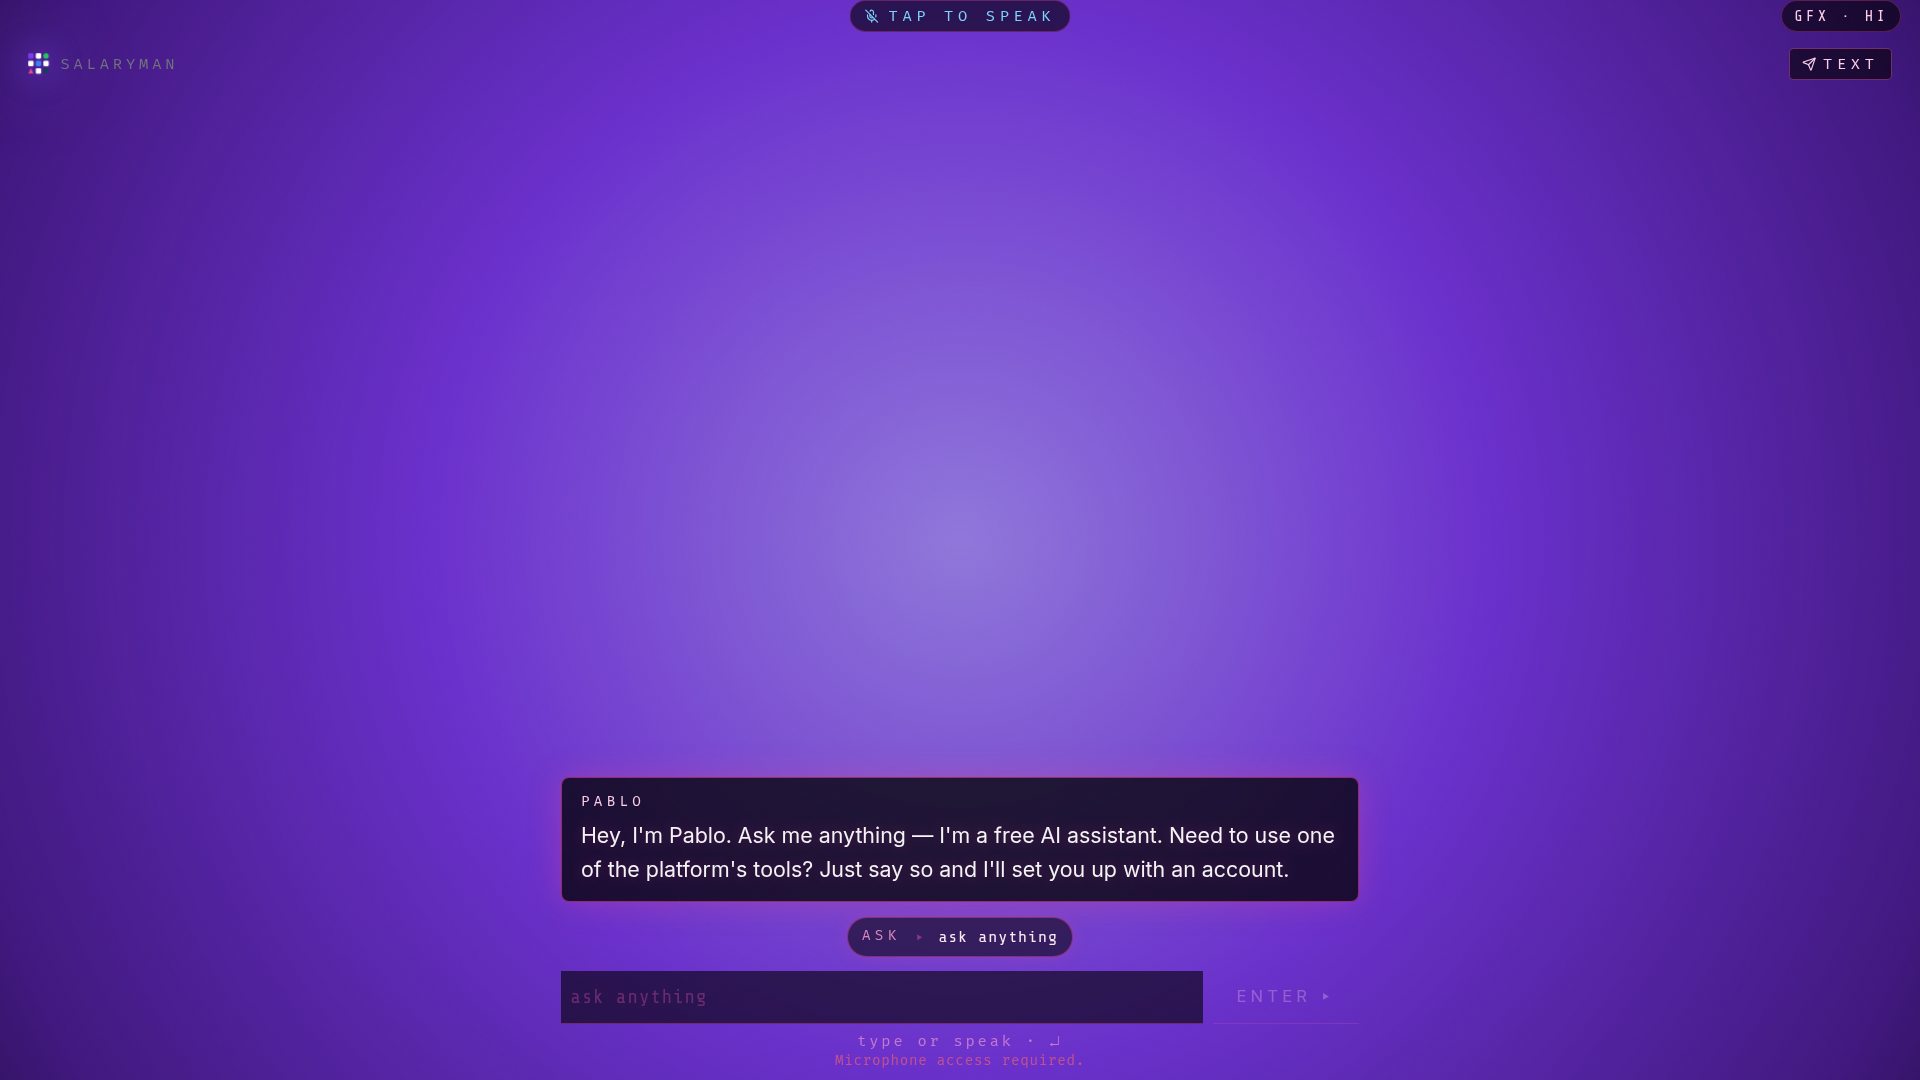
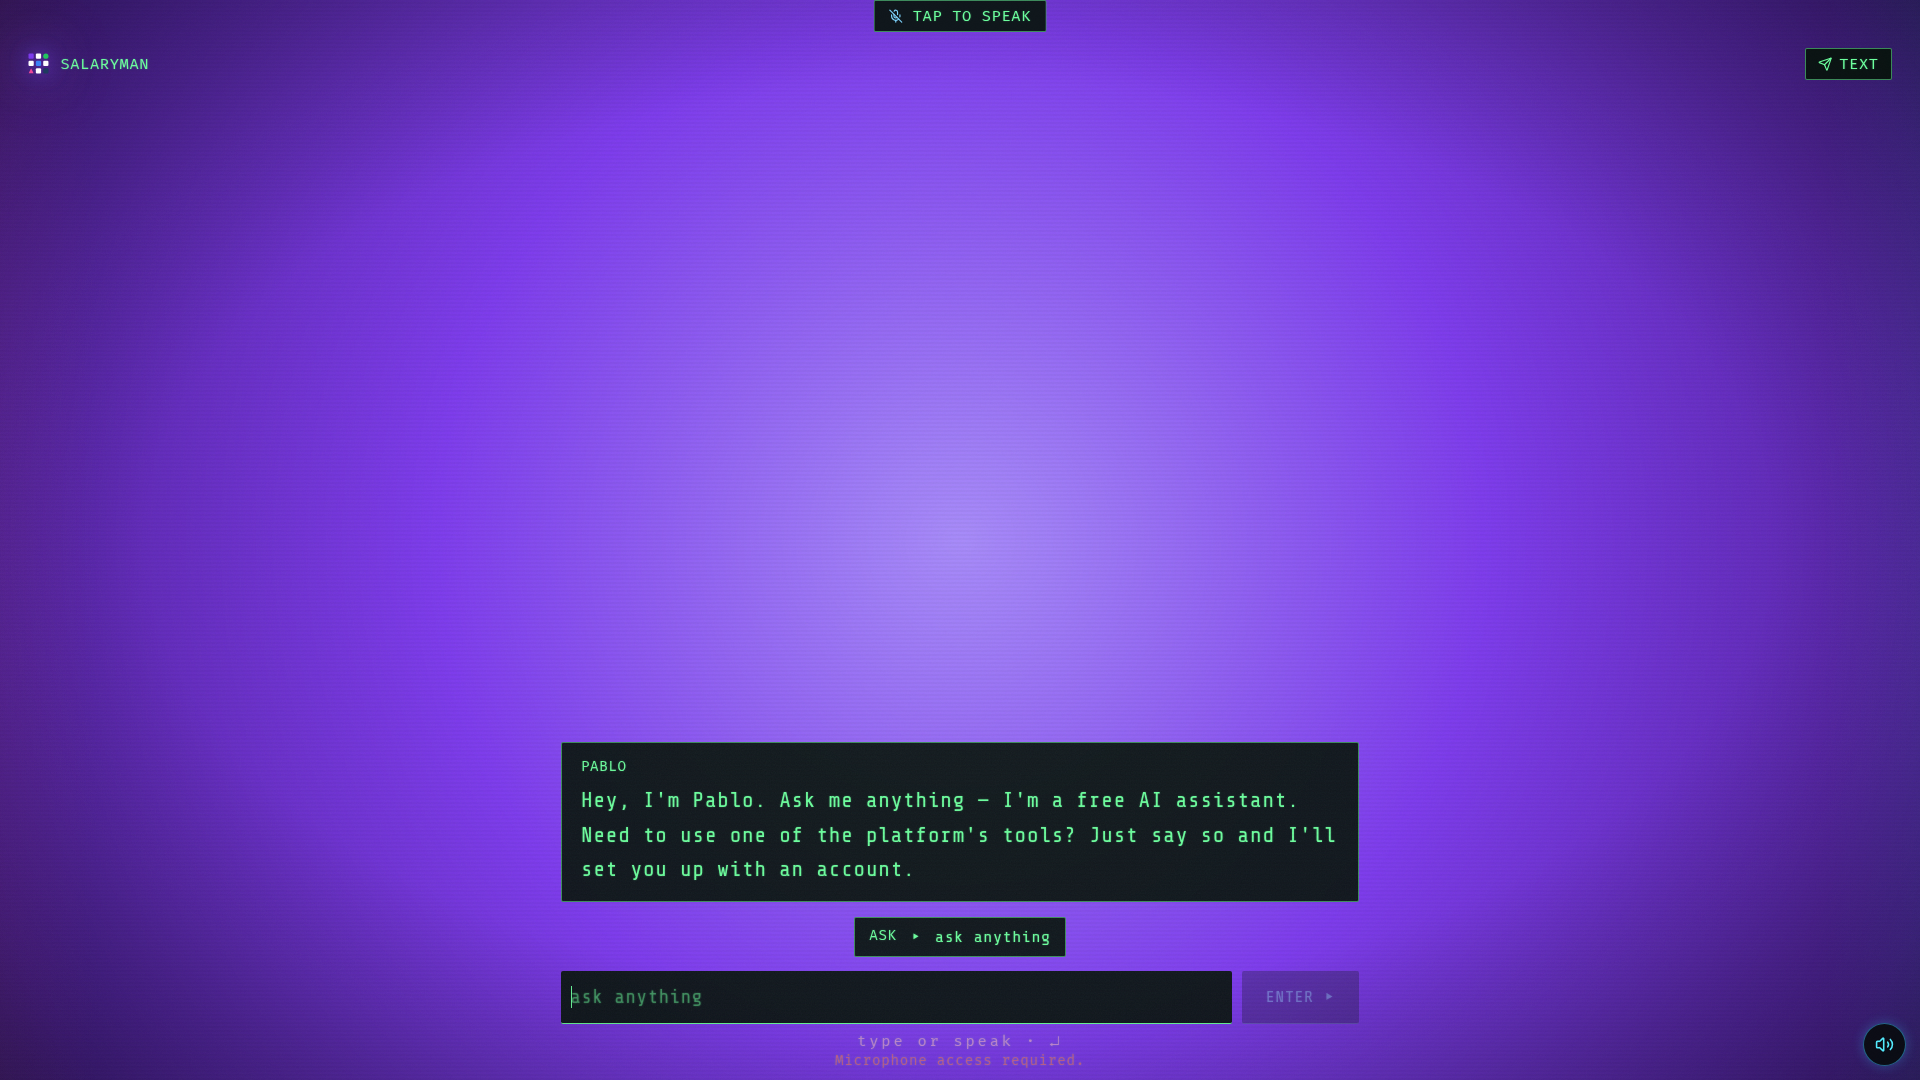
Add administrative tool to reset all player progress and organizations
Introduces a new 'world' target for the bulk reset endpoint in `admin.ts` and updates `AdminPanel.tsx` to include a button for a full fresh start, resetting all game progress and organizations while preserving user accounts and catalog data. Also updates the initial redirect logic in `Home.tsx` to target '/office' instead of '/bots/office'.

Replit-Commit-Author: Agent
Replit-Commit-Session-Id: 3f606aac-38ae-4c88-9832-72d69809cf42
Replit-Commit-Checkpoint-Type: full_checkpoint
Replit-Commit-Event-Id: 1b37b953-586e-409e-873a-f6a301ce90b8
Replit-Commit-Screenshot-Url: https://storage.googleapis.com/screenshot-production-us-central1/4cd4455d-8664-45df-88b0-61c0445e96ff/3f606aac-38ae-4c88-9832-72d69809cf42/vhYV5Ma
Replit-Helium-Checkpoint-Created: true

diff --git a/artifacts/interview-helper/src/pages/AdminPanel.tsx b/artifacts/interview-helper/src/pages/AdminPanel.tsx
@@ -864,15 +864,17 @@ export default function AdminPanel() {
     } catch {} finally { setActionLoading(false); }
   };
 
-  const handleBulkReset = async (target: 'saves' | 'features' | 'all') => {
+  const handleBulkReset = async (target: 'saves' | 'features' | 'all' | 'world') => {
     const labelMap: Record<string, string> = {
       saves: "DELETE EVERY PLAYER'S GAME PROGRESS (Picasso admins preserved)",
       features: "REVOKE EVERY USER'S FEATURE GRANTS (Picasso admins preserved)",
       all: "DELETE EVERY SAVE AND REVOKE EVERY FEATURE (Picasso admins preserved)",
+      world: "FULL FRESH START — wipe ALL game progress AND DELETE EVERY ORG for EVERYONE (admins included). Logins, subscriptions/billing, and the world catalog are kept. Everyone replays onboarding from the very beginning.",
     };
-    if (!confirm(`${labelMap[target]}\n\nType OK in the next prompt to confirm.`)) return;
-    const typed = prompt('Type OK to confirm this destructive bulk action:');
-    if (typed !== 'OK') return;
+    const confirmWord = target === 'world' ? 'RESET' : 'OK';
+    if (!confirm(`${labelMap[target]}\n\nType ${confirmWord} in the next prompt to confirm.`)) return;
+    const typed = prompt(`Type ${confirmWord} to confirm this destructive bulk action:`);
+    if (typed !== confirmWord) return;
     setActionLoading(true);
     try {
       const resp = await apiFetch(`/api/admin/bulk-reset`, {
@@ -882,7 +884,11 @@ export default function AdminPanel() {
       });
       if (resp.ok) {
         const data = await resp.json();
-        alert(`Done. Saves deleted: ${data.savesDeleted}. Features revoked: ${data.featuresRevoked}. Owners preserved: ${data.ownersPreserved}.`);
+        if (target === 'world') {
+          alert(`Full fresh start complete. ${data.total} rows wiped across ${Object.keys(data.counts ?? {}).length} tables (all game progress + every org). Logins, billing, and the world catalog are intact. Everyone now replays onboarding.`);
+        } else {
+          alert(`Done. Saves deleted: ${data.savesDeleted}. Features revoked: ${data.featuresRevoked}. Owners preserved: ${data.ownersPreserved}.`);
+        }
         loadData();
       } else {
         alert('Bulk reset failed.');
@@ -1034,6 +1040,18 @@ export default function AdminPanel() {
                     className="px-3 py-2 text-[10px] font-mono tracking-widest uppercase rounded-md bg-red-950/60 hover:bg-red-900/70 border border-red-700/60 text-red-100 disabled:opacity-40"
                   >
                     NUCLEAR — RESET BOTH
+                  </button>
+                </div>
+                <div className="mt-4 pt-4 border-t border-red-900/40">
+                  <p className="text-[11px] text-zinc-500 mb-3">
+                    <span className="text-red-300 font-mono">FULL FRESH START</span> — wipes ALL game progress <em>and deletes every org</em> for the entire player base (admins included). Logins, subscriptions/billing, and the world catalog are kept. Everyone replays onboarding from the very beginning.
+                  </p>
+                  <button
+                    onClick={() => handleBulkReset('world')}
+                    disabled={actionLoading}
+                    className="px-3 py-2 text-[10px] font-mono tracking-widest uppercase rounded-md bg-red-700/80 hover:bg-red-600/90 border border-red-500/70 text-white disabled:opacity-40"
+                  >
+                    ⚠ RESET EVERYONE TO THE BEGINNING
                   </button>
                 </div>
               </div>

diff --git a/artifacts/api-server/src/routes/admin.ts b/artifacts/api-server/src/routes/admin.ts
@@ -300,8 +300,64 @@ router.post("/admin/users/:userId/reset", async (req: Request, res: Response) =>
 router.post("/admin/bulk-reset", async (req: Request, res: Response) => {
   if (!(await requirePicassoAdmin(req, res))) return;
   const target = String(req.body?.target ?? "saves");
-  if (!["saves", "features", "all"].includes(target)) {
-    return res.status(400).json({ error: "target must be 'saves' | 'features' | 'all'" });
+  if (!["saves", "features", "all", "world"].includes(target)) {
+    return res.status(400).json({ error: "target must be 'saves' | 'features' | 'all' | 'world'" });
+  }
+
+  // FULL FRESH START — wipe ALL game progress + every org so the entire
+  // player base (admins included) replays onboarding from the very start.
+  // Logins (users, user_google_links), billing/subscriptions (user_tiers,
+  // user_features, feature_trials, pledge_purchases, usage_meters, pablo_tax_*),
+  // moderation (bans, flagged_users), the tester program, and all world
+  // catalog/seed tables are intentionally preserved so nobody is locked out
+  // and the world still exists to be re-onboarded into.
+  // Deleting `organizations` cascades to org_members/invites/partnerships/
+  // feature_grants/door_locks/org chat_channels/tickets (+ticket_comments).
+  // Every other table here keys players by a plain varchar user_id (no FK),
+  // so order is unconstrained; run as one transaction for all-or-nothing.
+  if (target === "world") {
+    const FRESH_START_TABLES = [
+      "organizations",
+      "salaryman_saves",
+      "world_businesses",
+      "player_profiles",
+      "player_inventory",
+      "player_loadout",
+      "player_ledger",
+      "player_cosmetics",
+      "player_crypto_balance",
+      "crypto_purchases",
+      "player_exploration",
+      "user_discovered_subway_stations",
+      "subway_trips",
+      "salaryman_player_pass",
+      "salaryman_player_missions",
+      "bank_accounts",
+      "bank_transactions",
+      "addresses",
+      "world_build_contributions",
+      "world_build_plans",
+      "colleagues",
+      "pablo_memories",
+      "pablo_commands",
+      "user_memory",
+    ] as const;
+    const counts: Record<string, number> = {};
+    await db.transaction(async (tx) => {
+      for (const t of FRESH_START_TABLES) {
+        const r = await tx.execute(sql.raw(`DELETE FROM "${t}"`));
+        counts[t] = (r as { rowCount?: number }).rowCount ?? 0;
+      }
+    });
+    const total = Object.values(counts).reduce((a, b) => a + b, 0);
+    await logAudit(
+      req.user!.id,
+      "bulk_reset",
+      "system",
+      "world",
+      `FULL FRESH START — ${total} rows wiped across ${FRESH_START_TABLES.length} tables (all game progress + every org). Logins/billing/catalog preserved.`,
+    );
+    return res.json({ ok: true, target, total, counts });
   }
 
   // Resolve owner user IDs so we never wipe the admins doing the testing.

diff --git a/artifacts/interview-helper/src/pages/Home.tsx b/artifacts/interview-helper/src/pages/Home.tsx
@@ -418,7 +418,7 @@ export default function Home() {
       if (window.sessionStorage.getItem('sm_intro_redirected') === '1') return;
       window.sessionStorage.setItem('sm_intro_redirected', '1');
     } catch { /* private mode — fall through and redirect once */ }
-    navigate(onboardingDone ? '/bots/office' : '/rebellion', { replace: true });
+    navigate(onboardingDone ? '/office' : '/rebellion', { replace: true });
   }, [onboardingDone, navigate]);
   useEffect(() => {
     const onStorage = (e: StorageEvent) => { if (e.key === 'sm_boomer') setBoomerMode(e.newValue === '1'); };
